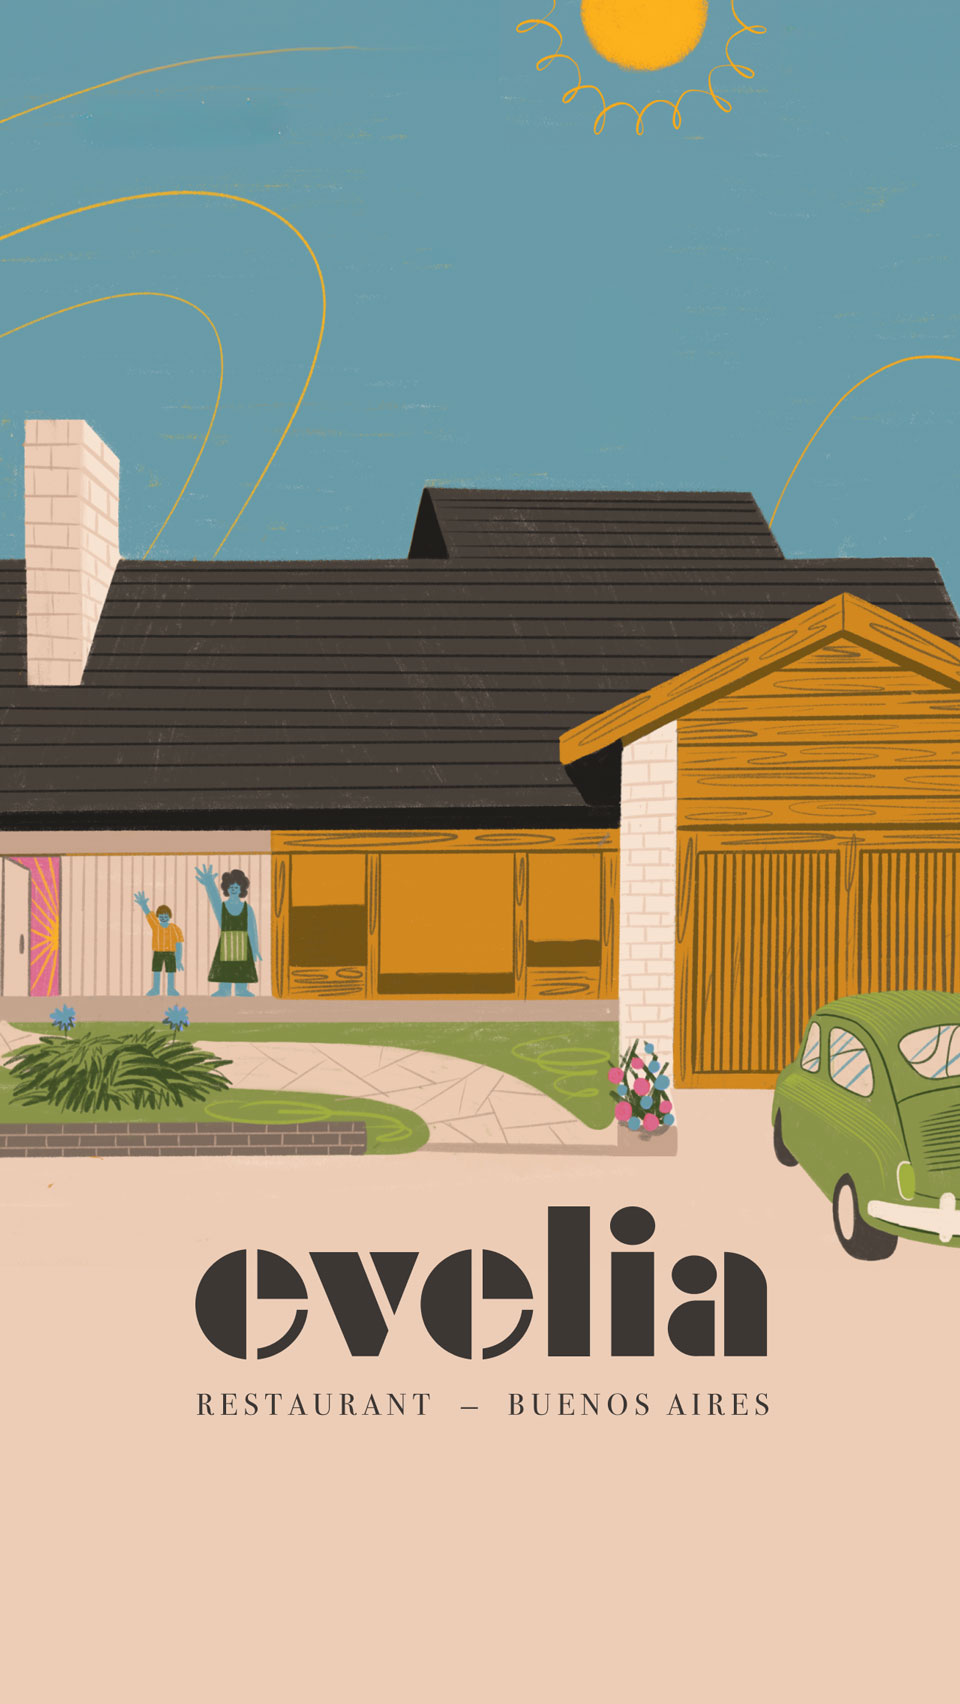
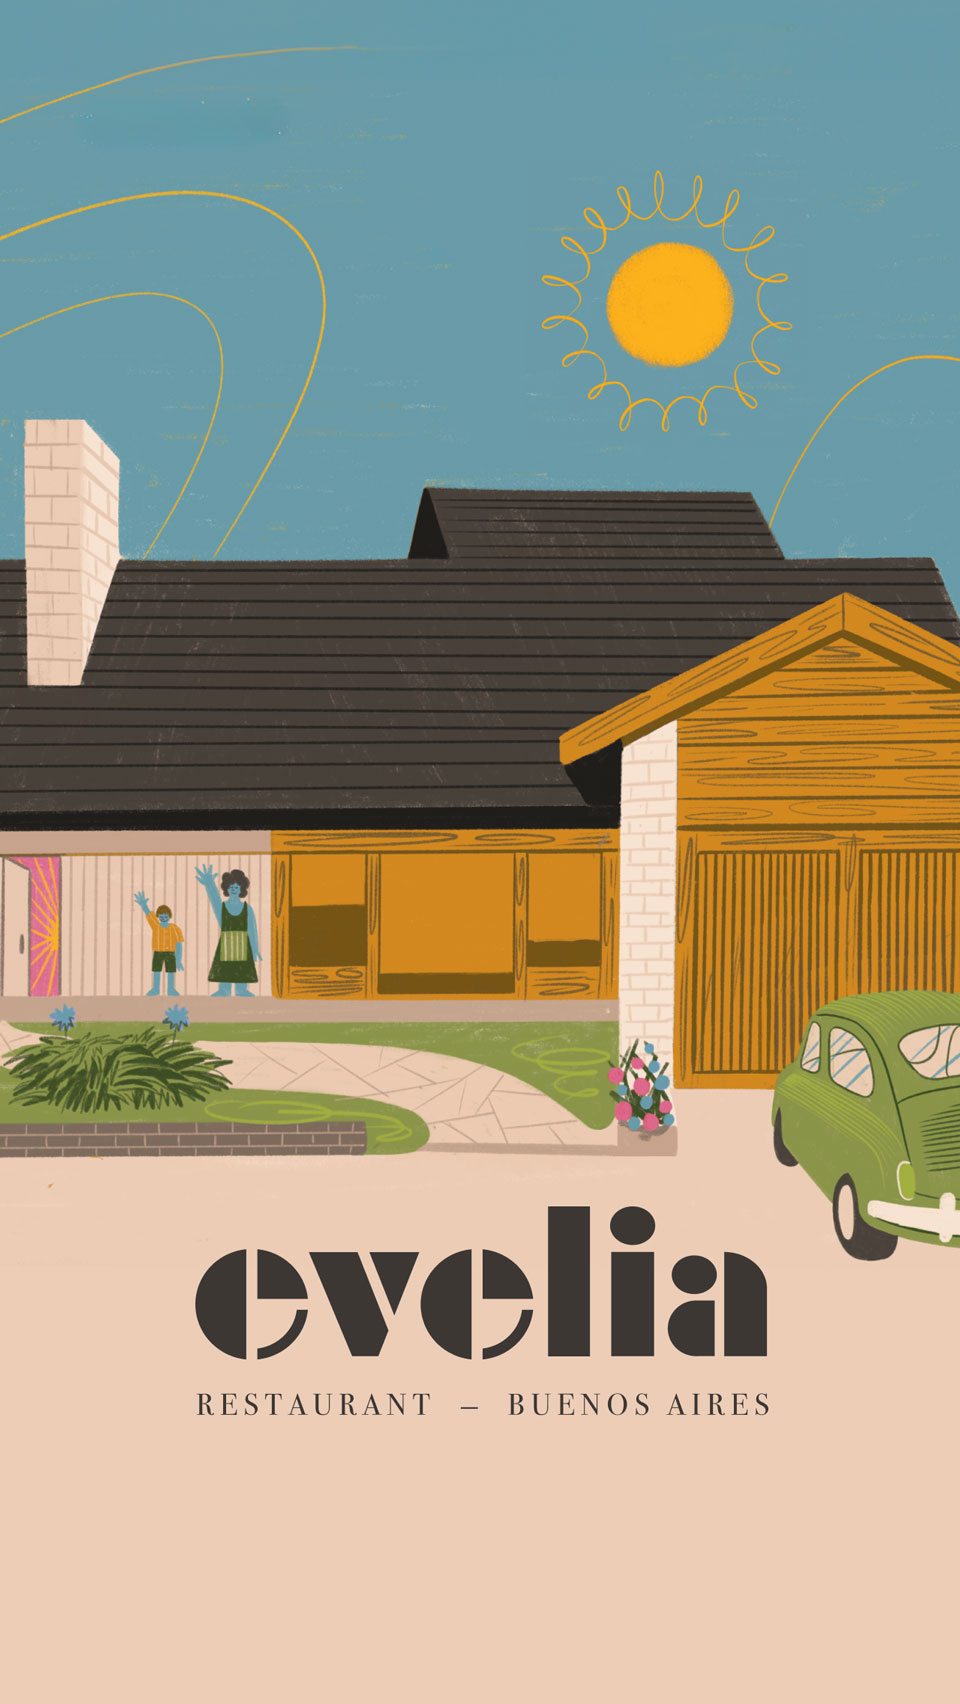
modificacion de fondo nuevamente para que se vea el sol

Changed region(s): [[0.5625, 0.0933, 0.8125, 0.2488], [0.5312, 0.0, 0.7812, 0.0933]]

diff --git a/css/estilos.css b/css/estilos.css
@@ -59,8 +59,7 @@ a {
   background-image: url("../assets/img/home/img-home-mobile.jpg");
   background-size: cover;
   background-repeat: no-repeat;
-  background-position-x: center;
-  background-position-y: top;
+  background-position: center;
   background-color: #ECCDB7;
   margin: 0px;
   flex: 1;
@@ -73,8 +72,7 @@ a {
   background-image: url("../assets/img/home/img-home-mobile-ingles.jpg");
   background-size: cover;
   background-repeat: no-repeat;
-  background-position-x: center;
-  background-position-y: top;
+  background-position: center;
   background-color: #ECCDB7;
   margin: 0px;
   flex: 1;
@@ -269,6 +267,7 @@ header {
   color: white;
   background-color: rgba(105, 154, 168, 0.8078431373);
   border-radius: 50px;
+  padding: 4px 6px;
 }
 
 .header__general__parte1__home p {

diff --git a/scss/_homeBody.scss b/scss/_homeBody.scss
@@ -2,8 +2,7 @@
     background-image: url("../assets/img/home/img-home-mobile.jpg");
     background-size: cover;
     background-repeat: no-repeat;
-    background-position-x: center;
-    background-position-y: top;
+    background-position: center;
     background-color: #ECCDB7;
     margin: 0px;
     flex: 1;
@@ -16,8 +15,7 @@
     background-image: url("../assets/img/home/img-home-mobile-ingles.jpg");
     background-size: cover;
     background-repeat: no-repeat;
-    background-position-x: center;
-    background-position-y: top;
+    background-position: center;
     background-color: #ECCDB7;
     margin: 0px;
     flex: 1;

diff --git a/scss/_header.scss b/scss/_header.scss
@@ -42,6 +42,7 @@ header {
     color: white;
     background-color: #699aa8ce;
     border-radius: 50px;
+    padding: 4px 6px;
 }
 
 .header__general__parte1__home p {
